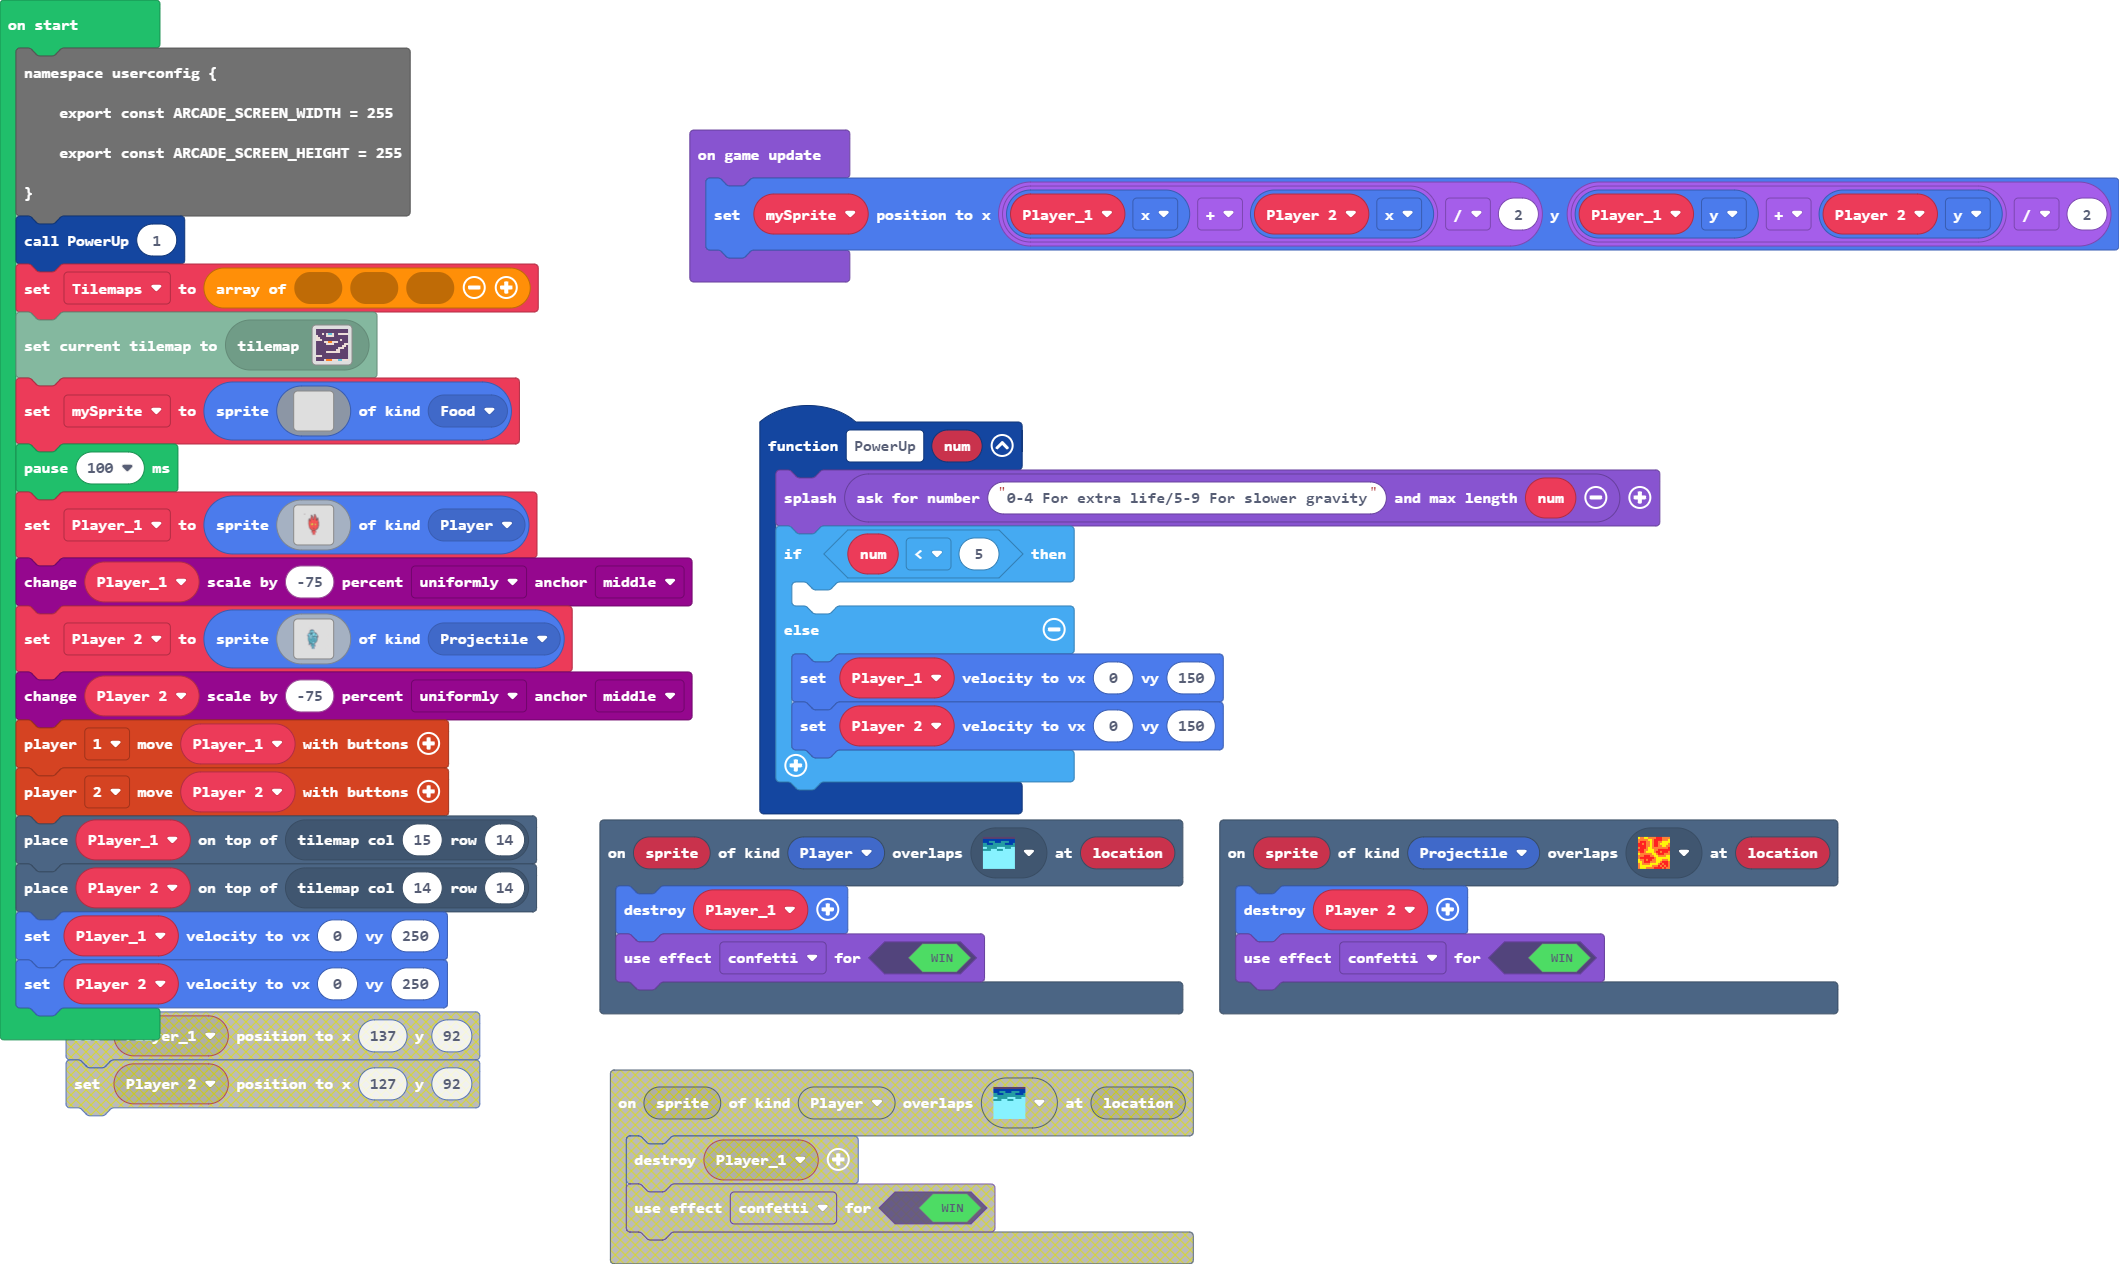
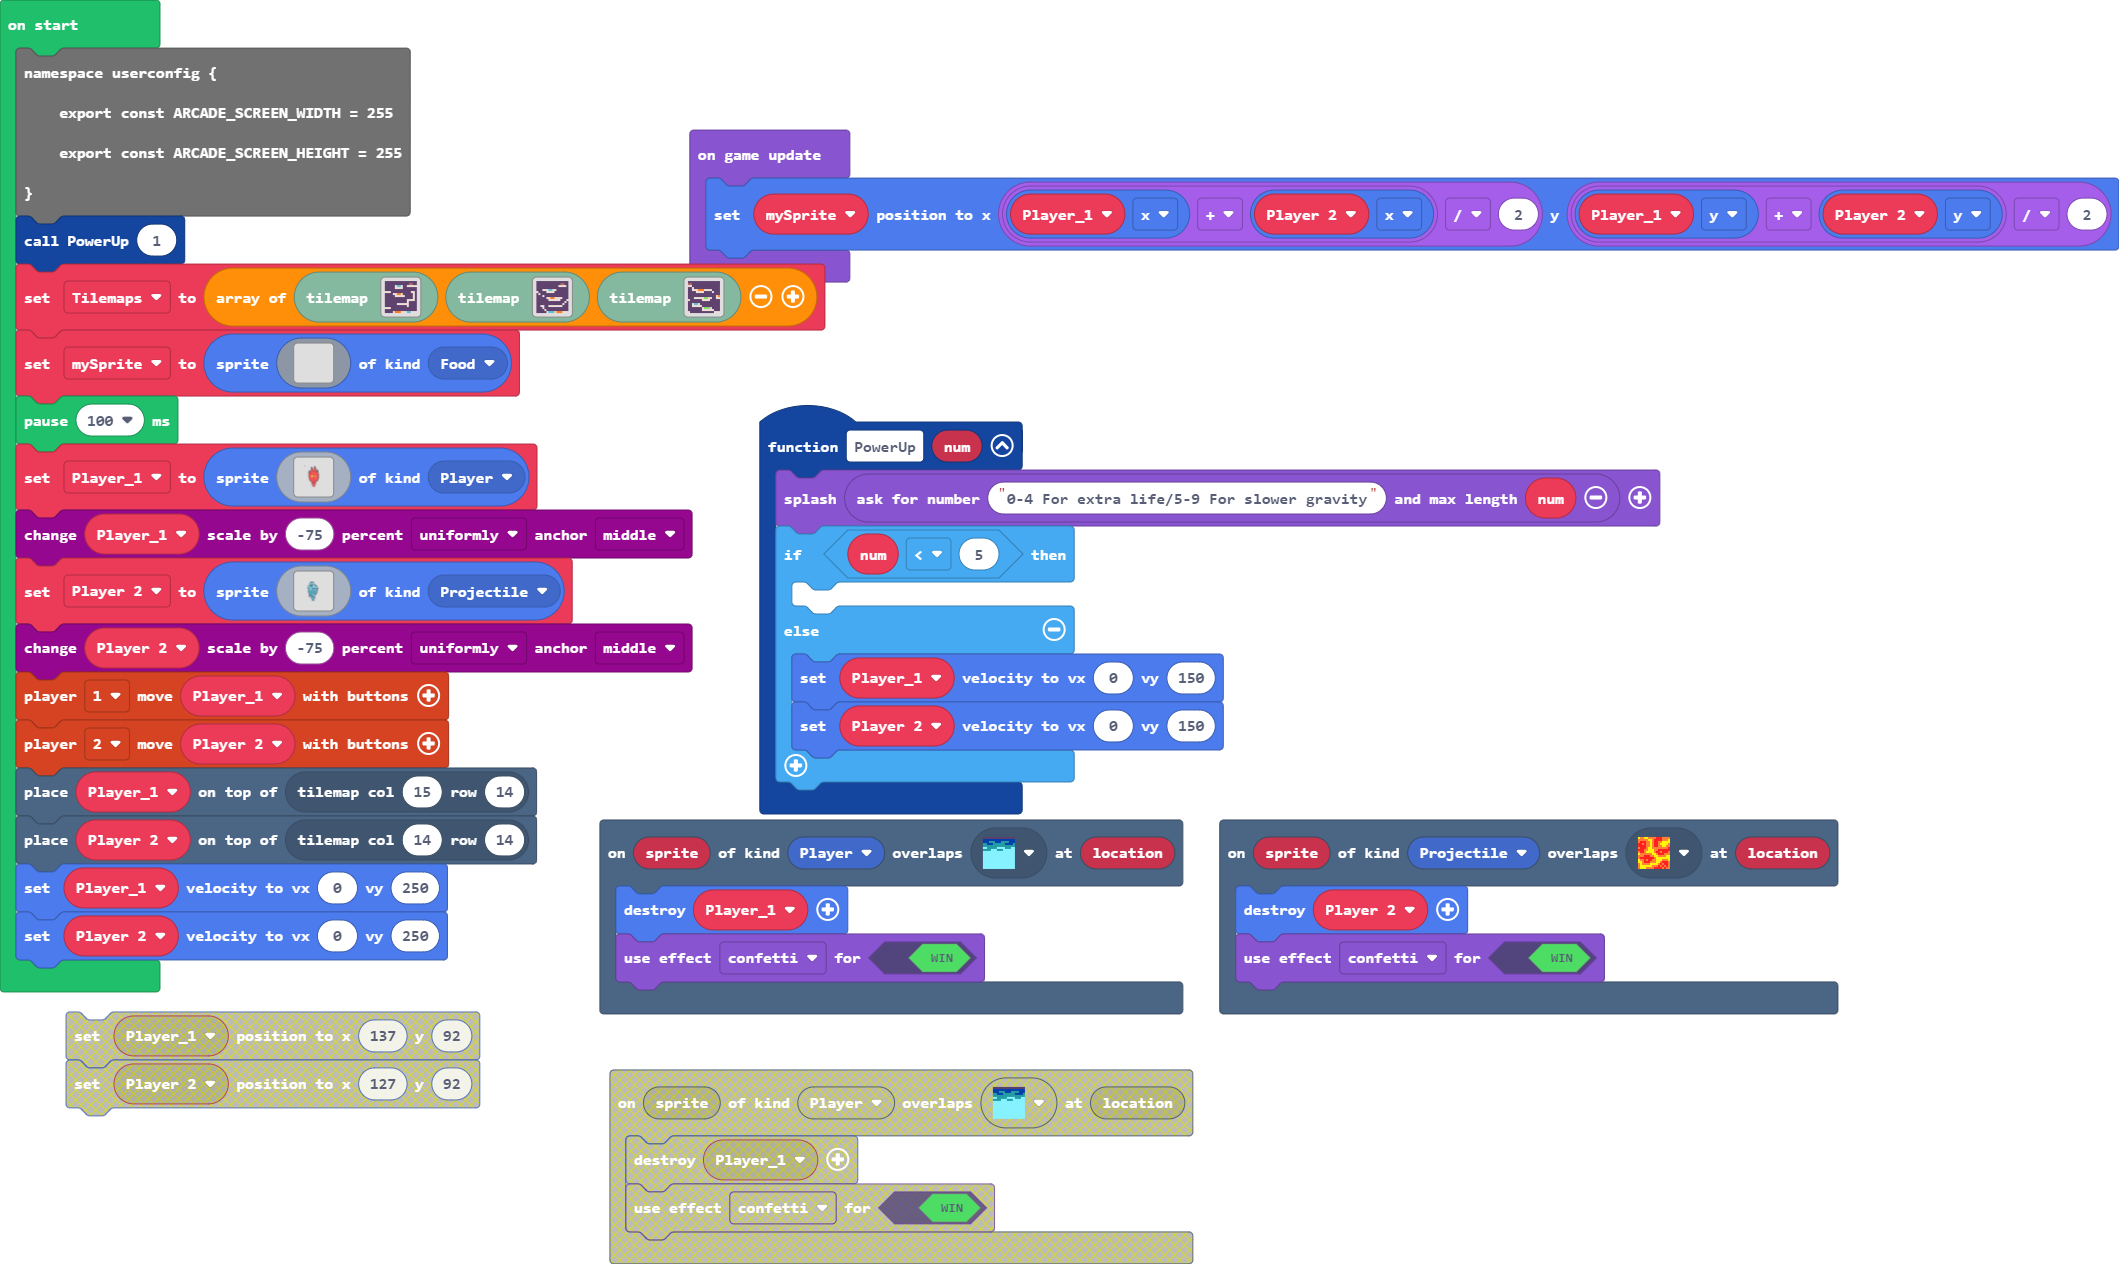
Update main.blocks, main.ts, tilemap.g.jres, tilemap.g.ts, images.g.jres, images.g.ts

Changed region(s): [[0.0, 0.1851, 0.4049, 0.6479], [0.2803, 0.8331, 0.5606, 1.0], [0.0, 0.6788, 0.2803, 0.8331]]

diff --git a/tilemap.g.ts b/tilemap.g.ts
@@ -6,6 +6,8 @@ namespace myTiles {
     export const transparency8 = image.ofBuffer(hex``);
     //% fixedInstance jres blockIdentity=images._tile
     export const tile1 = image.ofBuffer(hex``);
+    //% fixedInstance jres blockIdentity=images._tile
+    export const tile2 = image.ofBuffer(hex``);
 
     helpers._registerFactory("tilemap", function(name: string) {
         switch(helpers.stringTrim(name)) {
@@ -46,8 +48,8 @@ namespace myTiles {
 . . . . . . . . . . . . . . . . 
 . . . . . . . . . . . . . . . . 
 `, [myTiles.transparency16], TileScale.Sixteen);
-            case "level3":
-            case "level3":return tiles.createTilemap(hex`1000100000000000000000000000000000000000000000000000000000000000000000000000000000000000000000000000000000000000000000000000000000000000000000000000000000000000000000000000000000000000000000000000000000000000000000000000000000000000000000000000000000000000000000000000000000000000000000000000000000000000000000000000000000000000000000000000000000000000000000000000000000000000000000000000000000000000000000000000000000000000000000000000000000000000000000000000000000000000000000000000000000000000000000000000000000000000`, img`
+            case "level0":
+            case "level4":return tiles.createTilemap(hex`1000100000000000000000000000000000000000000000000000000000000000000000000000000000000000000000000000000000000000000000000000000000000000000000000000000000000000000000000000000000000000000000000000000000000000000000000000000000000000000000000000000000000000000000000000000000000000000000000000000000000000000000000000000000000000000000000000000000000000000000000000000000000000000000000000000000000000000000000000000000000000000000000000000000000000000000000000000000000000000000000000000000000000000000000000000000000000`, img`
 . . . . . . . . . . . . . . . . 
 . . . . . . . . . . . . . . . . 
 . . . . . . . . . . . . . . . . 
@@ -66,24 +68,138 @@ namespace myTiles {
 . . . . . . . . . . . . . . . . 
 `, [myTiles.transparency16], TileScale.Sixteen);
             case "level 1":
-            case "level 1":return tiles.createTilemap(hex`1000100001010101010101010101010101010101010101010101010101010101010101010101010201020404020101020202020202010101010202020201010101010101020201010101010101010101010101010202020101010101010101010201010101010101020203030202020101010101010101010102020202010101010102020101010101010101010101010102020101010101010101010101010202020101010101010101010101010202010101010101010101020202020202020101010101010101010101010101010101010101020202010101010101010101010101010101010101010101010101010101010101010101020505050202020404020202`, img`
+            case "level 1":return tiles.createTilemap(hex`1000100001010101010101010101010101010101010101010101010101010101060601010101010101020404020101020202020201010101010202020201010101010101010101010101010101010101010101010202020101010101010101010102020101010101020203030201010101010201010101010102020202020101010102010101010101010101010101010101020101010101010101010101010202020201010101010101010101010102010101010101010101010202020202020101010101010101010101010101010201010101020202010101010101010101010101010101010101010101010101010101010101010101020505050202020404020202`, img`
 . . . . . . . . . . . . . . . . 
 . . . . . . . . . . . . . . . . 
-. . . 2 . 2 . . 2 . . 2 2 2 2 2 
-2 . . . . 2 2 2 2 . . . . . . . 
-2 2 . . . . . . . . . . . . . . 
-2 2 2 . . . . . . . . . 2 . . . 
-. . . . 2 2 . . 2 2 2 . . . . . 
-. . . . . 2 2 2 2 . . . . . 2 2 
-. . . . . . . . . . . . . 2 2 . 
-. . . . . . . . . . . 2 2 2 . . 
-. . . . . . . . . . 2 2 . . . . 
-. . . . . 2 2 2 2 2 2 2 . . . . 
+. . . . . 2 . . 2 . . 2 2 2 2 2 
+. . . . . 2 2 2 2 . . . . . . . 
 . . . . . . . . . . . . . . . . 
+2 2 2 . . . . . . . . . . 2 2 . 
+. . . . 2 2 . . 2 . . . . . 2 . 
+. . . . . 2 2 2 2 2 . . . . 2 . 
+. . . . . . . . . . . . . . 2 . 
+. . . . . . . . . . . 2 2 2 2 . 
+. . . . . . . . . . . 2 . . . . 
+. . . . . . 2 2 2 2 2 2 . . . . 
+. . . . . . . . . . . 2 . . . . 
 2 2 2 . . . . . . . . . . . . . 
 . . . . . . . . . . . . . . . . 
 . . . . 2 . . . 2 2 2 . . 2 2 2 
-`, [myTiles.transparency16,sprites.dungeon.darkGroundCenter,sprites.builtin.brick,sprites.dungeon.hazardLava1,sprites.dungeon.hazardWater,sprites.dungeon.hazardLava0], TileScale.Sixteen);
+`, [myTiles.transparency16,sprites.dungeon.darkGroundCenter,sprites.builtin.brick,sprites.dungeon.hazardLava1,sprites.dungeon.hazardWater,sprites.dungeon.hazardLava0,sprites.dungeon.chestClosed], TileScale.Sixteen);
+            case "level7":
+            case "level7":return tiles.createTilemap(hex`1000100000000000000000000000000000000000000000000000000000000000000000000000000000000000000000000000000000000000000000000000000000000000000000000000000000000000000000000000000000000000000000000000000000000000000000000000000000000000000000000000000000000000000000000000000000000000000000000000000000000000000000000000000000000000000000000000000000000000000000000000000000000000000000000000000000000000000000000000000000000000000000000000000000000000000000000000000000000000000000000000000000000000000000000000000000000000`, img`
+. . . . . . . . . . . . . . . . 
+. . . . . . . . . . . . . . . . 
+. . . . . . . . . . . . . . . . 
+. . . . . . . . . . . . . . . . 
+. . . . . . . . . . . . . . . . 
+. . . . . . . . . . . . . . . . 
+. . . . . . . . . . . . . . . . 
+. . . . . . . . . . . . . . . . 
+. . . . . . . . . . . . . . . . 
+. . . . . . . . . . . . . . . . 
+. . . . . . . . . . . . . . . . 
+. . . . . . . . . . . . . . . . 
+. . . . . . . . . . . . . . . . 
+. . . . . . . . . . . . . . . . 
+. . . . . . . . . . . . . . . . 
+. . . . . . . . . . . . . . . . 
+`, [myTiles.transparency16], TileScale.Sixteen);
+            case "level":
+            case "level3":return tiles.createTilemap(hex`1000100001010101010101010101010101010101010101010101010101010101060601010101010101010101010101020202020101010101010101010101010101010101010101020202050502020101010101010201010101020202020101010101010101020101010101010101010101010101010101020101010101010101010101010101010101020203040202020201010101010101010102020202020201010102010101010101010101010101010102010101010101010101010101010102010101010202010102020202020202010101010101020101010101010101010101010101010102010101010101010101010101010101010205050502030403020202`, img`
+. . . . . . . . . . . . . . . . 
+. . . . . . . . . . . . . . . . 
+. . . . . . . . . . . 2 2 2 2 . 
+. . . . . . . . . . . . . . . . 
+. . . 2 2 2 . . 2 2 . . . . . . 
+2 . . . . 2 2 2 2 . . . . . . . 
+. 2 . . . . . . . . . . . . . . 
+. . . 2 . . . . . . . . . . . . 
+. . . . . 2 2 . . 2 2 2 2 . . . 
+. . . . . . 2 2 2 2 2 2 . . . 2 
+. . . . . . . . . . . . . . 2 . 
+. . . . . . . . . . . . . 2 . . 
+. . 2 2 . . 2 2 2 2 2 2 2 . . . 
+. . . 2 . . . . . . . . . . . . 
+. . . . 2 . . . . . . . . . . . 
+. . . . . 2 . . . 2 . . . 2 2 2 
+`, [myTiles.transparency16,sprites.dungeon.darkGroundCenter,sprites.builtin.brick,sprites.dungeon.hazardLava1,sprites.dungeon.hazardLava0,sprites.dungeon.hazardWater,sprites.dungeon.chestClosed], TileScale.Sixteen);
+            case "level8":
+            case "level8":return tiles.createTilemap(hex`1000100000000000000000000000000000000000000000000000000000000000000000000000000000000000000000000000000000000000000000000000000000000000000000000000000000000000000000000000000000000000000000000000000000000000000000000000000000000000000000000000000000000000000000000000000000000000000000000000000000000000000000000000000000000000000000000000000000000000000000000000000000000000000000000000000000000000000000000000000000000000000000000000000000000000000000000000000000000000000000000000000000000000000000000000000000000000`, img`
+. . . . . . . . . . . . . . . . 
+. . . . . . . . . . . . . . . . 
+. . . . . . . . . . . . . . . . 
+. . . . . . . . . . . . . . . . 
+. . . . . . . . . . . . . . . . 
+. . . . . . . . . . . . . . . . 
+. . . . . . . . . . . . . . . . 
+. . . . . . . . . . . . . . . . 
+. . . . . . . . . . . . . . . . 
+. . . . . . . . . . . . . . . . 
+. . . . . . . . . . . . . . . . 
+. . . . . . . . . . . . . . . . 
+. . . . . . . . . . . . . . . . 
+. . . . . . . . . . . . . . . . 
+. . . . . . . . . . . . . . . . 
+. . . . . . . . . . . . . . . . 
+`, [myTiles.transparency16], TileScale.Sixteen);
+            case "level6":
+            case "level5":return tiles.createTilemap(hex`1000100001010101010101010101010101010101060601010101010101010101010101010202010101010101010101010101010101010201010101010101010101010101010102020204040402020202010101010101010102020202010101010201010101010101010101010101010101010101010101010101010101010101010102040101010202020202030302020101020202010101010101020202020101010101010101010101010101010101010101010101020505020101010101010101010101010202020202010101010101010101010101010101010203030302010101010101010101010102020202020201010102010101010101010101010101020202`, img`
+. . . . . . . . . . . . . . . . 
+. . . . . . . . . . . . . . . . 
+2 2 . . . . . . . . . . . . . . 
+. . 2 . . . . . . . . . . . . . 
+. . 2 2 2 . . . 2 2 2 2 . . . . 
+. . . . 2 2 2 2 . . . . 2 . . . 
+. . . . . . . . . . . . . . . . 
+. . . . . . . . . . . . . . 2 . 
+. . . 2 2 2 2 2 . . 2 2 . . 2 2 
+2 . . . . . . 2 2 2 2 . . . . . 
+. . . . . . . . . . . . . . . . 
+. . 2 . . 2 . . . . . . . . . . 
+. . 2 2 2 2 2 . . . . . . . . . 
+. . . . . . . 2 . . . 2 . . . . 
+. . . . . . . 2 2 2 2 2 2 . . . 
+. . . . . . . . . . . . . 2 2 2 
+`, [myTiles.transparency16,sprites.dungeon.darkGroundCenter,sprites.builtin.brick,sprites.builtin.field0,sprites.dungeon.hazardLava0,sprites.dungeon.hazardWater,sprites.dungeon.chestClosed], TileScale.Sixteen);
+            case "level9":
+            case "level9":return tiles.createTilemap(hex`1000100000000000000000000000000000000000000000000000000000000000000000000000000000000000000000000000000000000000000000000000000000000000000000000000000000000000000000000000000000000000000000000000000000000000000000000000000000000000000000000000000000000000000000000000000000000000000000000000000000000000000000000000000000000000000000000000000000000000000000000000000000000000000000000000000000000000000000000000000000000000000000000000000000000000000000000000000000000000000000000000000000000000000000000000000000000000`, img`
+. . . . . . . . . . . . . . . . 
+. . . . . . . . . . . . . . . . 
+. . . . . . . . . . . . . . . . 
+. . . . . . . . . . . . . . . . 
+. . . . . . . . . . . . . . . . 
+. . . . . . . . . . . . . . . . 
+. . . . . . . . . . . . . . . . 
+. . . . . . . . . . . . . . . . 
+. . . . . . . . . . . . . . . . 
+. . . . . . . . . . . . . . . . 
+. . . . . . . . . . . . . . . . 
+. . . . . . . . . . . . . . . . 
+. . . . . . . . . . . . . . . . 
+. . . . . . . . . . . . . . . . 
+. . . . . . . . . . . . . . . . 
+. . . . . . . . . . . . . . . . 
+`, [myTiles.transparency16], TileScale.Sixteen);
+            case "level10":
+            case "level10":return tiles.createTilemap(hex`1000100000000000000000000000000000000000000000000000000000000000000000000000000000000000000000000000000000000000000000000000000000000000000000000000000000000000000000000000000000000000000000000000000000000000000000000000000000000000000000000000000000000000000000000000000000000000000000000000000000000000000000000000000000000000000000000000000000000000000000000000000000000000000000000000000000000000000000000000000000000000000000000000000000000000000000000000000000000000000000000000000000000000000000000000000000000000`, img`
+. . . . . . . . . . . . . . . . 
+. . . . . . . . . . . . . . . . 
+. . . . . . . . . . . . . . . . 
+. . . . . . . . . . . . . . . . 
+. . . . . . . . . . . . . . . . 
+. . . . . . . . . . . . . . . . 
+. . . . . . . . . . . . . . . . 
+. . . . . . . . . . . . . . . . 
+. . . . . . . . . . . . . . . . 
+. . . . . . . . . . . . . . . . 
+. . . . . . . . . . . . . . . . 
+. . . . . . . . . . . . . . . . 
+. . . . . . . . . . . . . . . . 
+. . . . . . . . . . . . . . . . 
+. . . . . . . . . . . . . . . . 
+. . . . . . . . . . . . . . . . 
+`, [myTiles.transparency16], TileScale.Sixteen);
         }
         return null;
     })
@@ -94,6 +210,8 @@ namespace myTiles {
             case "transparency8":return transparency8;
             case "myTile":
             case "tile1":return tile1;
+            case "myTile0":
+            case "tile2":return tile2;
         }
         return null;
     })

diff --git a/images.g.ts b/images.g.ts
@@ -228,6 +228,25 @@ namespace myImages {
 .....................................................................................................................................................
 .....................................................................................................................................................
 `;
+            case "image4":
+            case "myImage0":return img`
+. . . . . . . . . . . . . . . . 
+. . . . . . 7 . . . . . . . . . 
+. . . 7 7 . . 7 7 . . . . . . . 
+. . . . . . . . . . . . . . . . 
+. . 7 7 7 . . . . . . . . . . . 
+. . . 7 7 . . . . . . . . . . . 
+. . . 7 7 . . . . . . . . . . . 
+. 7 . . . . . . . . . . . . . . 
+. 7 . . . . . . . . . . . . . . 
+. 7 . . . . . . . . . . . . . . 
+. . . . . . . . . . . . . . . . 
+. . . . . . . . . . . . . . . . 
+. . . . . . . . . . . . . . . . 
+. . . . . . . . . . . . . . . . 
+. . . . . . . . . . . . . . . . 
+. . . . . . . . . . . . . . . . 
+`;
         }
         return null;
     })

diff --git a/main.ts b/main.ts
@@ -22,8 +22,7 @@ namespace userconfig {
     export const ARCADE_SCREEN_HEIGHT = 255
 }
 PowerUp(1)
-let Tilemaps: number[] = []
-tiles.loadMap(tiles.createMap(tilemap`level 1`))
+let Tilemaps = [tiles.createMap(tilemap`level 1`), tiles.createMap(tilemap`level`), tiles.createMap(tilemap`level6`)]
 let mySprite = sprites.create(img`
     . . . . . . . . . . . . . . . . 
     . . . . . . . . . . . . . . . . 
